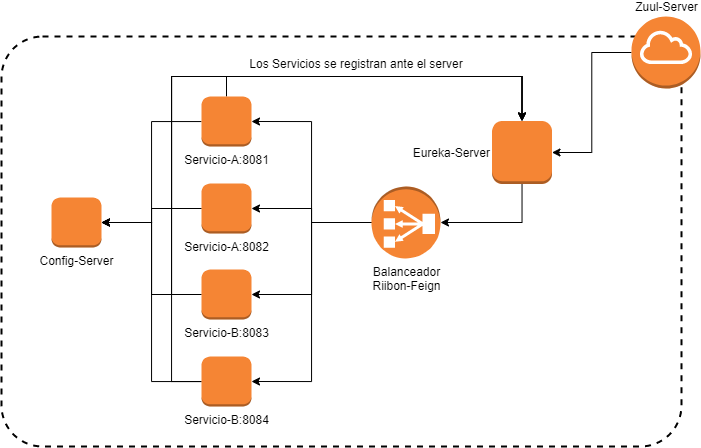
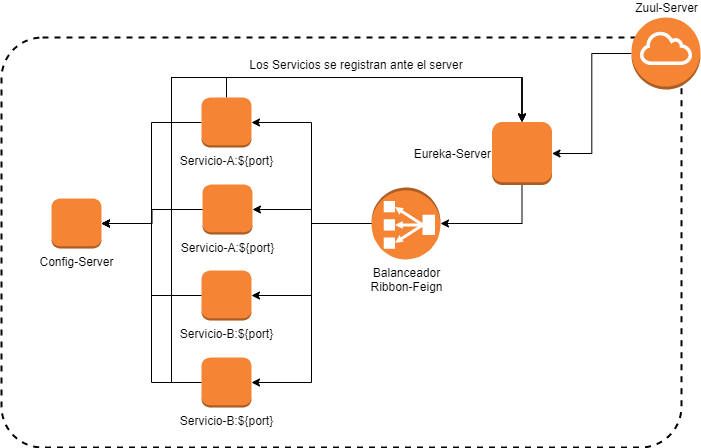
refactor: se actualiza la imagen de la arquitectura

diff --git a/README.md b/README.md
@@ -3,8 +3,11 @@ Repositorio en el cual se dara a conocer un grupo de proyectos basado en Microse
 
 Este repositorio sera le encargado de almacenar los archivos de configuración **properties** los cuales son utilizados en el servicio de configuración
 
-![Image](arquitectura-spring-boot-cloud.png)
+## Imagen de la Arquitectura
 
+![Image](arquitectura-spring-boot-cloud.png) <br>
+
+En función del crecimiento del proyecto se va actualizando la imagen.
 
 # Eureka server
 [Repositorio](https://github.com/robinarehen/springboot-servicio-eureka-server)
